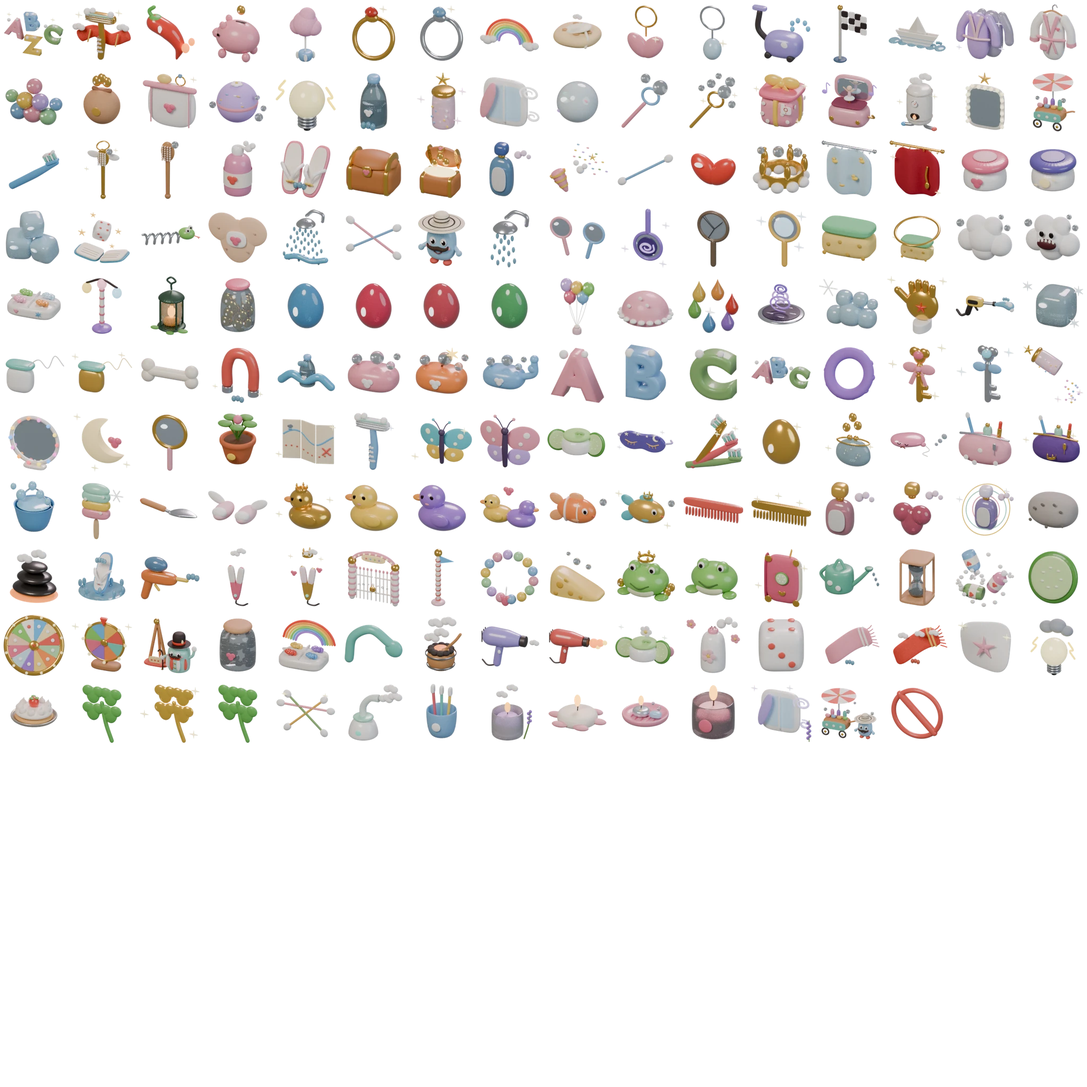
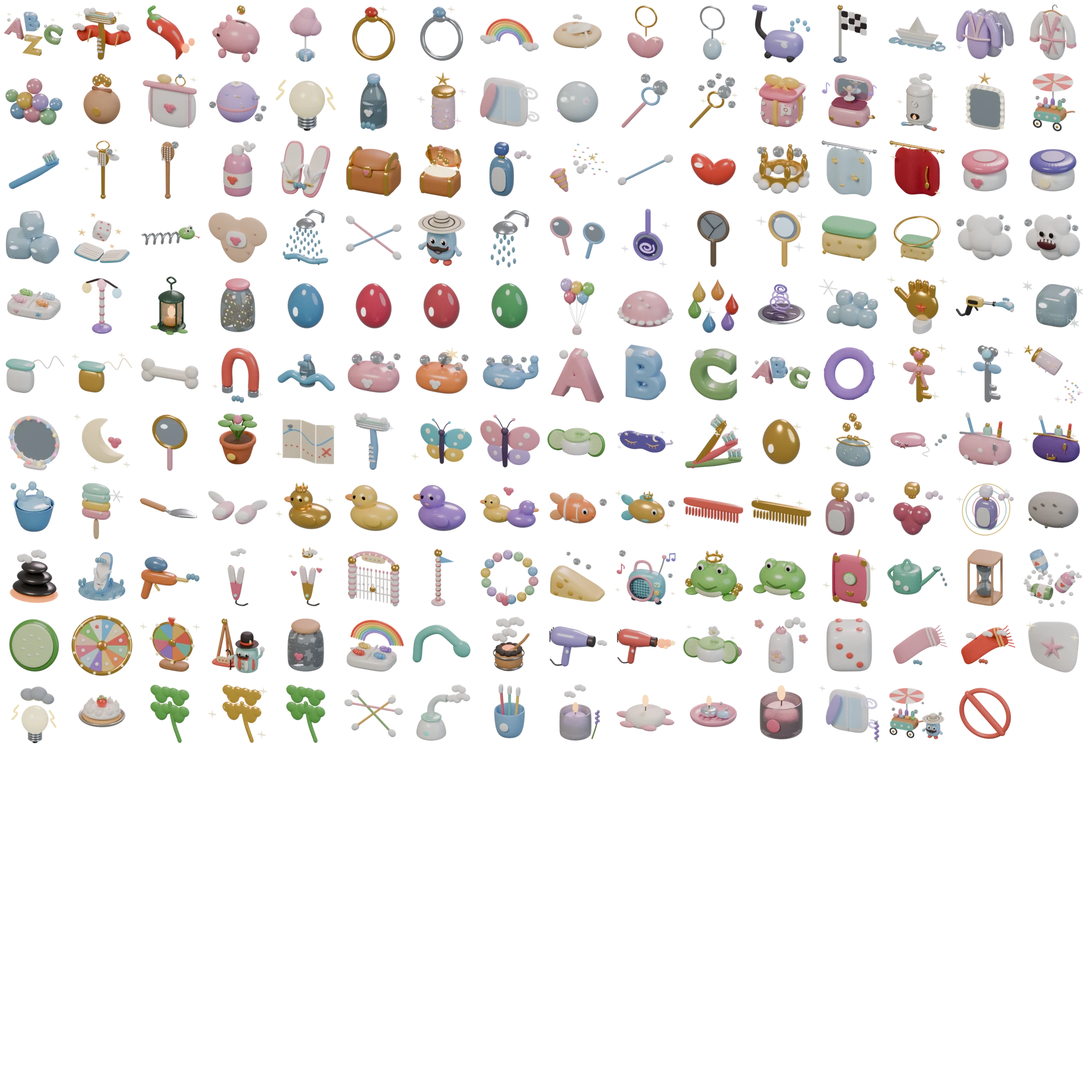
Lavarse la cara 2: la Radio de la ducha
- Un tesoro nuevo colgado en La Ducha: la Radio de la ducha (radiecito de
  peluche con parlante, antena, perillas y ventosa, hecho en Blender).
- Con ella sale en el menú el chip «📻» y la pantalla de la Radio: 23
  canciones del lavado y de los otros juegos (Sangre y Ceniza, el cohete, el
  súper, la cocina y la mesa). Al tocar una suena de una y queda escogida.
- En la lavada suena la escogida toda la partida, también con los jefes;
  «La de siempre» vuelve a las canciones que van cambiando solas.
- Logro nuevo «¡Que suene!» al encontrarla.

Claude-Session: https://claude.ai/code/session_0177HcXXdtEsQyn2197XiP7e

Changed region(s): [[0.0, 0.5, 1.0, 0.6875]]

diff --git a/juego/web/src/casa/lavado/menu.ts b/juego/web/src/casa/lavado/menu.ts
@@ -11,6 +11,7 @@ function conQue(a: DefArma): string {
 }
 import { AVENTURA, AVENTURAS, CAPITULO, capituloAbierto, type DefCapitulo } from './aventuras';
 import { CARTAS, ID_CARTAS } from './cartas';
+import { PISTA_RADIO, RADIO } from './radio';
 import { DISFRAZ, disfracesDe, puedeApuntar, type DefDisfraz } from './disfraces';
 import { ENEMIGOS, ID_ENEMIGOS } from './enemigos';
 import { ESCENARIOS, ID_ESCENARIOS } from './escenarios';
@@ -22,7 +23,7 @@ import {
   type ProgresoLavado,
 } from './progreso';
 import { MODO, MODOS, TESORO, TESORO_DE_MODO, TESOROS } from './tesoros';
-import { sfx } from './sonidos';
+import { musicaLavado, sfx } from './sonidos';
 import { PODER, PODERES, precioPoder } from './tienda';
 import { FRASES, aventuraVista, cartaVista, disfrazVisto, enemigoVisto, logroVisto } from './textos';
 import type { IdCarta, IdEscenario, IdModo, Rol, Stat } from './tipos';
@@ -139,6 +140,7 @@ export class Menu {
           <button class="lv-chip" data-m="cartas">${FRASES.iconoCarta()} ${carta ? carta.nombre : FRASES.sinCarta()}</button>
           <button class="lv-chip lv-chip-ataque ${apunta && this.p.manual ? 'si' : ''}" data-m="ataque" ${apunta ? '' : 'disabled'}
             title="${apunta ? 'Toca para cambiar' : 'Los disfraces de área siempre disparan solos'}">🎯 Ataque: ${apunta ? (this.p.manual ? 'a mano' : 'solito') : 'solito (de área)'}</button>
+          ${this.p.tesoros.includes('radio') ? `<button class="lv-chip" data-m="radio">📻 ${PISTA_RADIO[this.p.radio]?.nombre ?? 'Radio: la de siempre'}</button>` : ''}
           ${this.p.mejor[this.p.escenario] ? `<span class="lv-chip">🏆 ${mmss(this.p.mejor[this.p.escenario]!)}</span>` : ''}
         </div>
       </div>
@@ -189,11 +191,14 @@ export class Menu {
     this.actual = cual;
     this.sel = cual === 'disfraces' ? this.p.disfraz : cual === 'escenarios' ? this.p.escenario : cual === 'cartas' ? this.p.carta : cual === 'tienda' ? 'poder' : '';
     if (cual === 'aventuras') this.sel = this.capituloSugerido(this.avSel);
+    if (cual === 'radio') this.sel = this.p.radio;
     this.pantalla.hidden = false;
     this.pintarPantalla();
   }
 
   private cerrarPantalla() {
+    // (al salir de la Radio vuelve la música del menú)
+    if (this.actual === 'radio') musicaLavado.escuchar(null);
     this.pantalla.hidden = true;
     if (this.suelta) {
       this.suelta = false;
@@ -210,6 +215,7 @@ export class Menu {
     const titulo: Record<string, string> = {
       disfraces: 'Disfraces', escenarios: '¿Dónde nos lavamos?', cartas: FRASES.tituloCartas(), tienda: 'Poderes para siempre', coleccion: 'Colección',
       aventuras: FRASES.tituloAventuras(),
+      radio: '📻 La Radio de la ducha',
     };
     const cab = `<header><button class="lv-boton" data-v="volver">← Volver</button><h2>${titulo[this.actual]}</h2>
       <div class="lv-saldo" style="position:static">${icono('moneda', 22)}${miles(this.p.oro)}</div></header>`;
@@ -219,6 +225,7 @@ export class Menu {
     else if (this.actual === 'cartas') cuerpo = this.htmlCartas();
     else if (this.actual === 'tienda') cuerpo = this.htmlTienda();
     else if (this.actual === 'aventuras') cuerpo = this.htmlAventuras();
+    else if (this.actual === 'radio') cuerpo = this.htmlRadio();
     else cuerpo = this.htmlColeccion();
     this.pantalla.innerHTML = cab + cuerpo;
   }
@@ -436,6 +443,23 @@ export class Menu {
       <div class="lv-detalle">${det || '<h3>Toca algo para verlo</h3>'}${resumen}</div></div>`;
   }
 
+  // ------------------------------------------------------------------------------------------------- La Radio
+  private htmlRadio() {
+    const grupos = [...new Set(RADIO.map((r) => r.de))];
+    const fila = (id: string, nombre: string, extra = '') =>
+      `<button class="lv-pista ${this.sel === id ? 'sel' : ''}" data-sel="${id}"><i>${this.sel === id ? '🔊' : '▶'}</i><span>${nombre}</span>${extra}</button>`;
+    const lista = grupos.map((g) => `<h4>${g}</h4><div class="lv-pistas">${RADIO.filter((r) => r.de === g).map((r) => fila(r.id, r.nombre)).join('')}</div>`).join('');
+    const actual = PISTA_RADIO[this.sel];
+    return `<div class="cuerpo lv-radio">
+      <div class="lv-radio-lista">${fila('', '🔀 La de siempre', '<small>van cambiando y suben con el susto</small>')}${lista}</div>
+      <div class="lv-detalle lv-radio-detalle">${icono('radio', 92)}
+        <h3>${actual ? actual.nombre : 'La de siempre'}</h3>
+        <p>${actual ? `De ${actual.de}. Suena toda la lavada, también con los jefes.` : 'Las canciones del lavado van cambiando solas y se ponen más pesadas cuando la cosa se pone fea.'}</p>
+        <p class="esp">Toca una canción para escucharla: la que quede escogida es la que suena en la próxima lavada (cada celular la suya).</p>
+        <button class="lv-boton rosa" data-v="volver">¡Listo!</button>
+      </div></div>`;
+  }
+
   // ------------------------------------------------------------------------------------------------- Aventuras
   /** La aventura que se está viendo en la pantalla de aventuras. */
   private avSel = 'a1';
@@ -544,6 +568,12 @@ export class Menu {
     if (sel) {
       this.sel = sel.dataset.sel ?? '';
       sfx.toque();
+      if (this.actual === 'radio') {
+        // Tocar una canción la escoge y la pone a sonar (la de siempre: vuelve la del menú)
+        this.p.radio = this.sel in PISTA_RADIO ? this.sel : '';
+        musicaLavado.escuchar(this.p.radio || null);
+        void this.guardar();
+      }
       if (this.actual === 'escenarios') {
         const id = this.sel as IdEscenario;
         if (escenarioAbierto(this.p, id)) {

diff --git a/juego/web/src/casa/lavado/progreso.ts b/juego/web/src/casa/lavado/progreso.ts
@@ -4,6 +4,7 @@
 // ejecución: modelo.ts lo usa para normalizar.
 import { ARMAS, PASIVAS } from './armas';
 import { AVENTURA, CAPITULO, ID_CAPITULOS, aventuraCompleta } from './aventuras';
+import { PISTA_RADIO } from './radio';
 import { CARTAS } from './cartas';
 import { DISFRACES } from './disfraces';
 import { ENEMIGOS } from './enemigos';
@@ -68,6 +69,8 @@ export interface ProgresoLavado {
   cajitas: string[];
   /** Los capítulos de las aventuras que ya pasó. */
   aventuras: string[];
+  /** La canción escogida en la Radio de la ducha ('' = las de siempre, que van cambiando). */
+  radio: string;
 }
 
 export function progresoNuevo(rol: Rol): ProgresoLavado {
@@ -76,7 +79,7 @@ export function progresoNuevo(rol: Rol): ProgresoLavado {
     bestiario: {}, mejor: {}, ganados: [], mejorNivel: 0, mejorBajas: 0, partidas: 0, eliminados: 0, velitas: 0, cofres: 0, arepas: 0,
     oroTotal: 0, segundos: 0, apurado: false, escenario: 'cara', carta: '', manual: false, tutorial: false, maestria: {}, patitos: {},
     tesoros: [], hiper: [], modos: [], mejorSinFin: 0, llaves: [], cajitas: [],
-    aventuras: [],
+    aventuras: [], radio: '',
   };
 }
 
@@ -155,6 +158,7 @@ export function normalizarProgresoLavado(x: unknown, rol: Rol): ProgresoLavado {
     llaves: listaDe(x.llaves, DISFRACES.filter((d) => d.transforma).map((d) => d.id)),
     cajitas: listaDe(x.cajitas, DISFRACES.filter((d) => d.cajita).map((d) => d.id)),
     aventuras: listaDe(x.aventuras, ID_CAPITULOS),
+    radio: typeof x.radio === 'string' && x.radio in PISTA_RADIO ? x.radio : '',
   };
 }
 
@@ -317,6 +321,7 @@ export const LOGROS: DefLogro[] = [
   { id: 'feriaAbierta', nombre: 'Toda la feria', desc: 'Abre las tres partes de La Feria de las cremas en una partida', premio: 'Una corona más en la Sala de Trofeos', cumple: (p, r) => !!r && (r.feria ?? 0) >= 2 },
   // Fase 4: la Mascarilla de noche (las cartas de la noche), las llavecitas, la transformación y las cajitas sorpresa
   { id: 'mascarillaNoche', nombre: 'Buenas noches', desc: 'Encuentra la Mascarilla de noche (está tirada en La Bañera)', premio: 'Las seis cartas de la noche', cumple: (p) => p.tesoros.includes('mascarillaNoche') },
+  { id: 'radio', nombre: '¡Que suene!', desc: 'Encuentra la Radio de la ducha (está colgada en La Ducha)', premio: 'La Radio: escoges la canción de la lavada', cumple: (p) => p.tesoros.includes('radio') },
   { id: 'llavecita', nombre: 'La llavecita', desc: 'Encuentra la llavecita escondida de un disfraz', premio: 'Una corona más en la Sala de Trofeos', cumple: (p) => p.llaves.length >= 1 },
   { id: 'transformado', nombre: '¡Transformación!', desc: 'Llega al nivel 80 con un disfraz que tenga su llavecita', premio: 'Una corona más en la Sala de Trofeos', cumple: (p, r) => !!r?.transformado },
   { id: 'cajita1', nombre: '¡Sorpresa!', desc: 'Abre una cajita sorpresa (vence a los mugrosos que la cuidan)', premio: 'El disfraz que traía, para comprarlo', cumple: (p) => p.cajitas.length >= 1 },

diff --git a/juego/web/src/casa/lavado/radio.ts b/juego/web/src/casa/lavado/radio.ts
@@ -1,0 +1,38 @@
+// La Radio de la ducha (el Magic Banger del original): con ella se escoge la canción que suena en la lavada. Trae las
+// del lavado y las de los otros juegos que también tiene la app de amigos (nunca las de la casa ni las de la pareja).
+// Los nombres son los de la Radio (el id es el de la pista en public/musica/lista.json).
+
+export interface PistaRadio {
+  id: string;
+  nombre: string;
+  /** De qué juego es (para agruparlas en la pantalla). */
+  de: string;
+}
+
+export const RADIO: PistaRadio[] = [
+  { id: 'lavado-partida', nombre: 'Espuma a mil', de: 'Lavarse la cara' },
+  { id: 'lavado-partida2', nombre: 'Burbujas pesadas', de: 'Lavarse la cara' },
+  { id: 'lavado-partida3', nombre: 'Cepillo eléctrico', de: 'Lavarse la cara' },
+  { id: 'lavado-partida4', nombre: 'Toalla al hombro', de: 'Lavarse la cara' },
+  { id: 'lavado-intensa', nombre: 'Agua hirviendo', de: 'Lavarse la cara' },
+  { id: 'lavado-intensa2', nombre: 'Champú en los ojos', de: 'Lavarse la cara' },
+  { id: 'lavado-intensa3', nombre: 'Tormenta de jabón', de: 'Lavarse la cara' },
+  { id: 'lavado-jefe', nombre: 'El jefe del desagüe', de: 'Lavarse la cara' },
+  { id: 'lavado-menu', nombre: 'Frente al espejo', de: 'Lavarse la cara' },
+  { id: 'sangre-batalla', nombre: 'La batalla', de: 'Sangre y Ceniza' },
+  { id: 'sangre-horda', nombre: 'La horda', de: 'Sangre y Ceniza' },
+  { id: 'sangre-jefe', nombre: 'El guardián', de: 'Sangre y Ceniza' },
+  { id: 'sangre-noche', nombre: 'La noche', de: 'Sangre y Ceniza' },
+  { id: 'cohete-cancion', nombre: 'Del baño a la NASA', de: 'Retrete cohete' },
+  { id: 'cohete-tramo0', nombre: 'El despegue', de: 'Retrete cohete' },
+  { id: 'cohete-tramo6', nombre: 'Espacio profundo', de: 'Retrete cohete' },
+  { id: 'super-cancion', nombre: '¡Súper Manía!', de: 'Súper Manía' },
+  { id: 'super-dia', nombre: 'Día de súper', de: 'Súper Manía' },
+  { id: 'super-legendario', nombre: 'Súper legendario', de: 'Súper Manía' },
+  { id: 'cocina-cancion', nombre: 'Hecho con amor', de: 'Cocina de chef' },
+  { id: 'cocina-pico', nombre: 'Hora pico', de: 'Cocina de chef' },
+  { id: 'mesa-dados', nombre: 'Dados al aire', de: 'Mesa de juegos' },
+  { id: 'mesa-parchis', nombre: 'Parchís', de: 'Mesa de juegos' },
+];
+
+export const PISTA_RADIO: Record<string, PistaRadio> = Object.fromEntries(RADIO.map((p) => [p.id, p]));

diff --git a/juego/web/src/casa/lavado/sonidos.ts b/juego/web/src/casa/lavado/sonidos.ts
@@ -204,6 +204,10 @@ class Musica {
   private antes: string | null = null;
   // Las pistas que rotan en la partida (las que tengan archivo), barajadas en cada partida
   private ruedas: { normal: string[]; intensa: string[] } = { normal: ['lavado-partida'], intensa: ['lavado-intensa'] };
+  /** La canción de la Radio de la ducha: suena toda la partida, también con jefe (null: la rueda de siempre). */
+  radio: string | null = null;
+  /** La que se está escuchando en la pantalla de la Radio (en el menú). */
+  private escuchando: string | null = null;
 
   /** 0 tranquila … 3 a todo dar (sube con los minutos): desde la 2, la pista más pesada. */
   get intensidad() {
@@ -227,8 +231,14 @@ class Musica {
     this.enPartida = false;
     this.elegir();
   }
+  /** La Radio del menú: escuchar una canción (null: vuelve la del menú). */
+  escuchar(id: string | null) {
+    this.escuchando = id;
+    this.elegir();
+  }
   /** Empieza una partida. */
   partida() {
+    this.escuchando = null;
     this.enPartida = true;
     this.nivel = 0;
     this.conJefe = false;
@@ -241,6 +251,11 @@ class Musica {
   }
   private elegir() {
     if (!this.reloj) return;
+    if (!this.enPartida && this.escuchando) return musicaCasa.pista(this.escuchando, { bucle: true });
+    if (this.enPartida && this.radio) {
+      if (musicaCasa.pistaActual() !== this.radio) musicaCasa.pista(this.radio, { bucle: true });
+      return;
+    }
     if (!this.enPartida || this.conJefe) return musicaCasa.pista(!this.enPartida ? 'lavado-menu' : 'lavado-jefe');
     // En la partida, una rueda de canciones (normal o intensa): si ya suena una de la rueda que toca, se deja seguir
     const rueda = this.nivel >= 2 ? this.ruedas.intensa : this.ruedas.normal;

diff --git a/juego/web/src/casa/lavado.css b/juego/web/src/casa/lavado.css
@@ -1269,3 +1269,19 @@ body.lavandose .hud-arriba-der { opacity: 0; pointer-events: none; transition: o
   font: 700 12px/1.4 var(--texto); color: #5f4a44;
 }
 .lv-fin-historia b { display: block; font: 700 13px/1.2 var(--display); color: #3d2b27; margin-bottom: 2px; }
+
+/* La Radio de la ducha */
+.lv-radio { gap: 10px; }
+.lv-radio-lista { flex: 1.4; overflow-y: auto; overscroll-behavior: contain; touch-action: pan-y; padding: 2px 4px 8px 2px; display: flex; flex-direction: column; gap: 4px; }
+.lv-radio-lista h4 { margin: 6px 0 0 4px; font: 700 13px/1.1 var(--display); color: #8a4a5a; }
+.lv-pistas { display: grid; grid-template-columns: repeat(auto-fill, minmax(150px, 1fr)); gap: 4px; }
+.lv-pista {
+  border: 0; border-radius: 12px; padding: 6px 9px; display: flex; align-items: center; gap: 7px; text-align: left; color: #3d2b27;
+  background: rgba(255, 248, 238, 0.95); box-shadow: 0 2px 0 rgba(61, 43, 39, 0.18); font: 700 11.5px/1.15 var(--texto);
+}
+.lv-pista i { font-style: normal; width: 20px; height: 20px; border-radius: 50%; display: grid; place-items: center; background: #6cc9d6; color: #fff; font-size: 10px; flex: 0 0 20px; }
+.lv-pista small { margin-left: auto; color: #7a625a; font-size: 10px; }
+.lv-pista.sel { outline: 3px solid #d7708d; background: #fff; }
+.lv-pista.sel i { background: #d7708d; animation: lv-latir 0.9s ease-in-out infinite; }
+.lv-radio-detalle { align-items: center; text-align: center; justify-content: center; }
+.lv-radio-detalle .lv-ico { filter: drop-shadow(0 4px 0 rgba(61, 43, 39, 0.15)); }

diff --git a/juego/web/src/casa/lavado/tipos.ts b/juego/web/src/casa/lavado/tipos.ts
@@ -105,7 +105,7 @@ export type IdEscenario = 'cara' | 'lavamanos' | 'banera' | 'ducha' | 'jabonera'
 /** Los modos que se abren con los tesoros (y el Hiper de cada escenario, venciendo a su jefe del minuto 25). */
 export type IdModo = 'hiper' | 'inverso' | 'infinito' | 'sinLimite' | 'ruleta' | 'azar';
 /** Los tesoros del baño (las reliquias del original). */
-export type IdTesoro = 'espejoReves' | 'calentador' | 'recetas' | 'ruleta' | 'cuento' | 'mapa' | 'monedero' | 'mascarillaNoche';
+export type IdTesoro = 'espejoReves' | 'calentador' | 'recetas' | 'ruleta' | 'cuento' | 'mapa' | 'monedero' | 'mascarillaNoche' | 'radio';
 
 export type IdObjeto =
   | 'arepa' // vida (el pollo del original)

diff --git a/juego/web/src/casa/lavado/tesoros.ts b/juego/web/src/casa/lavado/tesoros.ts
@@ -52,6 +52,10 @@ export const TESOROS: DefTesoro[] = [
     escenario: 'banera', x: 2300, y: 1300, pista: 'Está tirada en La Bañera, muy abajo a la derecha',
   },
   {
+    id: 'radio', nombre: 'La Radio de la ducha', original: 'Magic Banger', abre: 'La Radio en el menú: escoges la canción que suena en la lavada',
+    escenario: 'ducha', x: 2000, y: -1400, pista: 'Está colgada en La Ducha, muy arriba a la derecha',
+  },
+  {
     id: 'monedero', nombre: 'El Monedero', original: 'Glass Vizard', abre: 'El vendedor ambulante sale en todos los escenarios',
     escenario: null, x: 0, y: 0, pista: 'Se lo compras al vendedor ambulante',
   },

diff --git a/juego/web/src/casa/lavado/juego.ts b/juego/web/src/casa/lavado/juego.ts
@@ -888,6 +888,8 @@ export class Lavado {
     let tJefe = 0;
     let tFinEspera = 0;
     let nCuadros = 0;
+    // (con la Radio de la ducha, la canción escogida; cada celular la suya)
+    musicaLavado.radio = this.p.tesoros.includes('radio') && this.p.radio ? this.p.radio : null;
     musicaLavado.partida();
     const resumen = await new Promise<ResumenPartida | null>((ok) => {
       terminar = ok;

diff --git a/personajes/blender/lavado_objetos.py b/personajes/blender/lavado_objetos.py
@@ -2559,6 +2559,76 @@ def mascarilla_noche(p):
     destellos(p, [(0.42, -0.1, 0.6), (-0.42, -0.1, 0.15)], 0.045, '#E8DEFF')
 
 
+def nota_musical(p, c, s, m, doble=False):
+    """Una corchea (o dos unidas) de plastilina, de frente a la cámara."""
+    x, y, z = c
+    cabezas = [(x, z)] + ([(x + s * 0.9, z + s * 0.25)] if doble else [])
+    for (cx, cz) in cabezas:
+        p.blob((cx, y, cz), (s * 0.34, s * 0.16, s * 0.26), m, n=8)
+        p.tubo([(cx + s * 0.28, y, cz + s * 0.05), (cx + s * 0.28, y, cz + s * 1.1)], s * 0.07, m, seg=6)
+    if doble:
+        p.tubo([(x + s * 0.28, y, z + s * 1.1), (x + s * 1.18, y, z + s * 1.35)], s * 0.12, m, seg=6, perfil=(1.0, 0.6))
+    else:
+        p.tubo([(x + s * 0.28, y, z + s * 1.1), (x + s * 0.62, y, z + s * 0.82), (x + s * 0.6, y, z + s * 0.55)], s * 0.08, m, seg=6, perfil=(1.0, 0.6))
+
+
+def radio_ducha(p):
+    """La Radio de ducha (el tesoro que deja escoger la música): radiecito redondo de colgar en la ducha, con su parlante
+    grande, la perilla, la antena con bolita, la ventosa de atrás y notas que se le escapan."""
+    cuerpo = M('#6CC9D6', rough=0.4, coat=0.5)
+    borde = M('#F39AB0', rough=0.45, coat=0.4)
+    oscuro = M('#2F4858', rough=0.6)
+    # El cuerpo: una cajita bien redonda, con el borde rosado alrededor del frente
+    p.caja((0, 0, 0.3), (0.3, 0.13, 0.25), cuerpo, p=3.2)
+    o = clay.lathe(p.nom(), [(0.205, -0.02), (0.235, 0.0), (0.205, 0.02), (0.18, 0.0)], p.coll, borde, segments=40, subsurf=1,
+                   cap_bottom=False, cap_top=False)
+    o.rotation_euler = (math.pi / 2, 0, 0)
+    o.location = (-0.06, -0.125, 0.29)
+    p.add(o)
+    # El parlante: rejilla oscura con huequitos
+    o = clay.lathe(p.nom(), [(0.0, 0.0), (0.19, 0.0), (0.19, 0.012)], p.coll, oscuro, segments=40, subsurf=1, cap_bottom=True, cap_top=False)
+    o.rotation_euler = (math.pi / 2, 0, 0)
+    o.location = (-0.06, -0.118, 0.29)
+    p.add(o)
+    rejilla = M('#4E6E80', rough=0.5)
+    for i in range(-3, 4):
+        for k in range(-3, 4):
+            if i * i + k * k > 10:
+                continue
+            p.blob((-0.06 + i * 0.045, -0.135, 0.29 + k * 0.045), (0.016, 0.006, 0.016), rejilla, n=5)
+    # La pantallita con su onda y las dos perillas a la derecha
+    p.caja((0.22, -0.125, 0.4), (0.055, 0.012, 0.04), M('#BFF5D8', rough=0.3, emision=0.6, ruido=0.0), p=4.0)
+    p.tubo([(0.18, -0.14, 0.4), (0.2, -0.14, 0.42), (0.22, -0.14, 0.38), (0.24, -0.14, 0.42), (0.26, -0.14, 0.4)], 0.005,
+           M('#2F8F68', 0.4), seg=4)
+    for (z, col) in ((0.27, '#F7D046'), (0.15, '#F39AB0')):
+        k = M(col, rough=0.35, coat=0.6)
+        o = clay.lathe(p.nom(), [(0.0, 0.0), (0.045, 0.0), (0.045, 0.03), (0.038, 0.04), (0.0, 0.04)], p.coll, k, segments=24, subsurf=1,
+                       cap_bottom=True, cap_top=True)
+        o.rotation_euler = (math.pi / 2, 0, 0)
+        o.location = (0.22, -0.12, z)
+        p.add(o)
+        p.caja((0.22, -0.162, z + 0.022), (0.006, 0.004, 0.016), M('#FFFDF8', 0.4), p=4.0)
+    # La antena con bolita y la tira de colgar arriba
+    p.tubo([(0.2, 0.0, 0.52), (0.26, 0.0, 0.7), (0.29, 0.0, 0.82)], 0.012, M('#C9D3DA', rough=0.25, metal=0.8), seg=6)
+    p.blob((0.29, 0.0, 0.84), (0.035,) * 3, borde, n=8)
+    p.tubo([(-0.2, 0.0, 0.52), (-0.16, 0.0, 0.66), (-0.04, 0.0, 0.7), (0.04, 0.0, 0.66), (0.08, 0.0, 0.52)], 0.025, borde, seg=8,
+           perfil=(1.0, 0.55))
+    # La ventosa de atrás (asoma por los lados) y las paticas de goma
+    o = clay.lathe(p.nom(), [(0.0, 0.0), (0.11, 0.0), (0.13, 0.03), (0.06, 0.05), (0.0, 0.05)], p.coll,
+                   M('#E8F7F2', rough=0.2, coat=0.6, transmision=0.4), segments=32, subsurf=1, cap_bottom=True, cap_top=True)
+    o.rotation_euler = (-math.pi / 2, 0, 0)
+    o.location = (0.0, 0.13, 0.3)
+    p.add(o)
+    for sx in (-1, 1):
+        p.blob((sx * 0.2, -0.02, 0.05), (0.05, 0.05, 0.03), oscuro, n=6)
+    # Las notas que se le escapan y unas burbujitas
+    nota_musical(p, (-0.42, -0.1, 0.5), 0.13, M('#E86A8A', rough=0.35, coat=0.5))
+    nota_musical(p, (0.4, -0.12, 0.86), 0.1, M('#7B6CD9', rough=0.35, coat=0.5), doble=True)
+    burbuja(p, (-0.36, -0.12, 0.84), 0.05)
+    burbuja(p, (0.44, -0.12, 0.6), 0.035)
+    destellos(p, [(-0.44, -0.12, 0.2), (0.48, -0.12, 0.3)], 0.04)
+
+
 def cajita_sorpresa(p):
     """La cajita sorpresa: caja de regalo grande de rayas con moño enorme y una etiqueta con signo de pregunta."""
     rosa = M('#F39AB0', rough=0.5, coat=0.3)
@@ -2823,7 +2893,7 @@ ICONOS = {
     'bandera': bandera,
     'quesito': quesito,
     # La Feria de las cremas
-    'llavecita': lambda p: llavecita(p), 'cajita': cajita_sorpresa, 'mascarillaNoche': mascarilla_noche,
+    'llavecita': lambda p: llavecita(p), 'cajita': cajita_sorpresa, 'mascarillaNoche': mascarilla_noche, 'radio': radio_ducha,
     'hueso_mano': hueso_mano, 'hueso_dorado': dorar(hueso_mano), 'bomba_dorada': dorar(bomba_mano), 'barquito_dorado': dorar(barquito_mano),
     'talco_dorado': dorar(talco_mano), 'cartas_mano': cartas_mano, 'regalito_mano': regalito_mano, 'perrito_mochila': perrito_mochila,
     'llave_espalda': llave_espalda, 'gorro_papel': gorro_papel, 'maquina_mano': maquina_mano,

diff --git a/docs/pedidos.md b/docs/pedidos.md
@@ -54,7 +54,7 @@ con ella quedan todos los escenarios de la propuesta). Javier pidió (12 de octu
 arreglos de la granja que venía haciendo el otro frente (`en-obra/granja-arreglos.md`: tandas 1 a 5 **hechas**; la 6
 espera que Javier diga si la hace este frente o el del motor) y después seguir con lo que falta del lavado. La fase 4
 ya está completa (4a y 4b: ocho disfraces con transformación y cajitas sorpresa; 4c: las cartas de la noche; 4d: las
-aventuras de la protagonista por capítulos); del lavado queda lo pequeño: la Radio y los bichos especiales. Antes, **la fase 1 completa** (las 24 armas del juego base y 5 de
+aventuras de la protagonista por capítulos); del lavado queda lo pequeño: los bichos especiales (la Radio ya está). Antes, **la fase 1 completa** (las 24 armas del juego base y 5 de
 los DLC con sus evoluciones, 7 pasivas, 9 recogibles, los 4 arcanos que faltaban, 4 poderes en la tienda y 40 logros
 nuevos). Antes, **los arreglos de Sangre y Ceniza que Javier encontró jugando** (9 de octubre: sigilos, visión
 astral en pulso, el Guardián de una, sin pantallazo negro y los menús rehechos) y **la app de amigos con los seis
@@ -134,7 +134,8 @@ primero**, con 5 etapas, escenas cortas con la mitología (Él y Ella de protago
        noche, tirada en La Bañera).
      - ~~4d: las aventuras de la protagonista~~ **hecho** (13 capítulos en tres aventuras: el carro andando, el bus a
        Barranquilla sin el detalle y los vuelos cancelados; sola o en pareja, con historia antes y después).
-     - Lo pequeño que queda: la Radio (escoger la música) y los bichos especiales (el que persigue, el que inunda).
+     - ~~La Radio (escoger la música)~~ **hecho** (tesoro en La Ducha; 23 canciones del lavado y de los otros juegos).
+     - Lo pequeño que queda: los bichos especiales (el que persigue, el que inunda).
 4. ~~**Amigos: mesa, retrete y cocina en la app de amigos**~~ **hecho**: la app de amigos ya trae los seis juegos.
 5. **El Show de Nosotros** (rama `trabajo/show`, en «Lo acumulado»).
 6. **Cien Puertas con mucho más diseño** (punto 4 de «Ahora»): es para lo último.

diff --git a/docs/sistemas/nuestro-hogar.md b/docs/sistemas/nuestro-hogar.md
@@ -610,6 +610,14 @@ disparan solitos. Se cambia en el menú, en la sala de espera o en la pausa, y s
   capítulo (el anfitrión lo escoge, `ConfigPartida.capitulo`), los dos lo guardan y la sala sigue con el siguiente.
   Los capítulos no cuentan como escenario ganado ni como récord. El progreso guarda `aventuras` (capítulos pasados).
   Para el balance: `CAPITULO=a1c2 node scripts/balance-lavado.mjs 3 - el,ella`.
+- **La Radio de la ducha** (el Magic Banger del original): un tesoro más, colgado en La Ducha muy arriba a la derecha
+  (radiecito de colgar con parlante, perillas, antena y ventosa, en Blender: `radio_ducha` en `lavado_objetos.py`;
+  logro «¡Que suene!», 94 en total). Con ella sale en el menú el chip «📻» y la pantalla de la Radio (`radio.ts`): 23
+  canciones con nombre propio, las del lavado y las de Sangre y Ceniza, el cohete, el súper, la cocina y la mesa
+  (las que también trae la app de amigos; nunca las de la casa ni las de la pareja). Tocar una la pone a sonar y la
+  deja escogida (`progreso.radio`); en la lavada suena esa toda la partida, también con jefes
+  (`musicaLavado.radio`), y «La de siempre» vuelve a la rueda de canciones que se pone más pesada con los minutos.
+  Cada celular escoge la suya.
 - **Cofres** con la tragamonedas de 1, 3 o 5 premios. En el piso: arepa con queso (vida), ola de agua fría
   (limpia la pantalla), hielo (congela), aspiradora (todas las gotitas), monedas y bolsas de gotas doradas,
   trébol, ají y velitas que se rompen.

diff --git a/docs/en-obra/lavado-propuesta.md b/docs/en-obra/lavado-propuesta.md
@@ -228,7 +228,7 @@ Ducha» → una carta…). Todo se ve en la colección y en la Sala de Trofeos.
    - **2a hecha** (11 de octubre): los seis tesoros tirados (Cuento, Mapa, Ruleta, y después de ganar: Libro de
      recetas, Calentador y Espejo al revés) y los seis modos. Mientras no existan los escenarios de la ducha, los
      tesoros están en La Cara, El Lavamanos y La Bañera; el Espejito de mano y los tres frasquitos ya se abrían con
-     logros (fase 1). Quedan para después la Radio (cuando haya música por escenario) y la Mascarilla de noche (fase 4).
+     logros (fase 1). La Radio y la Mascarilla de noche se hicieron después (fase 4).
    - **2b hecha** (11 de octubre): el vendedor ambulante es **Don Jabón** (pastilla de jabón de peluche con sombrero
      vueltiao) con su carrito; vende con las gotas de la partida. Las **cajitas sorpresa** se pasan a la fase 4: cada
      una trae un disfraz nuevo, así que se hacen junto con esos disfraces.
